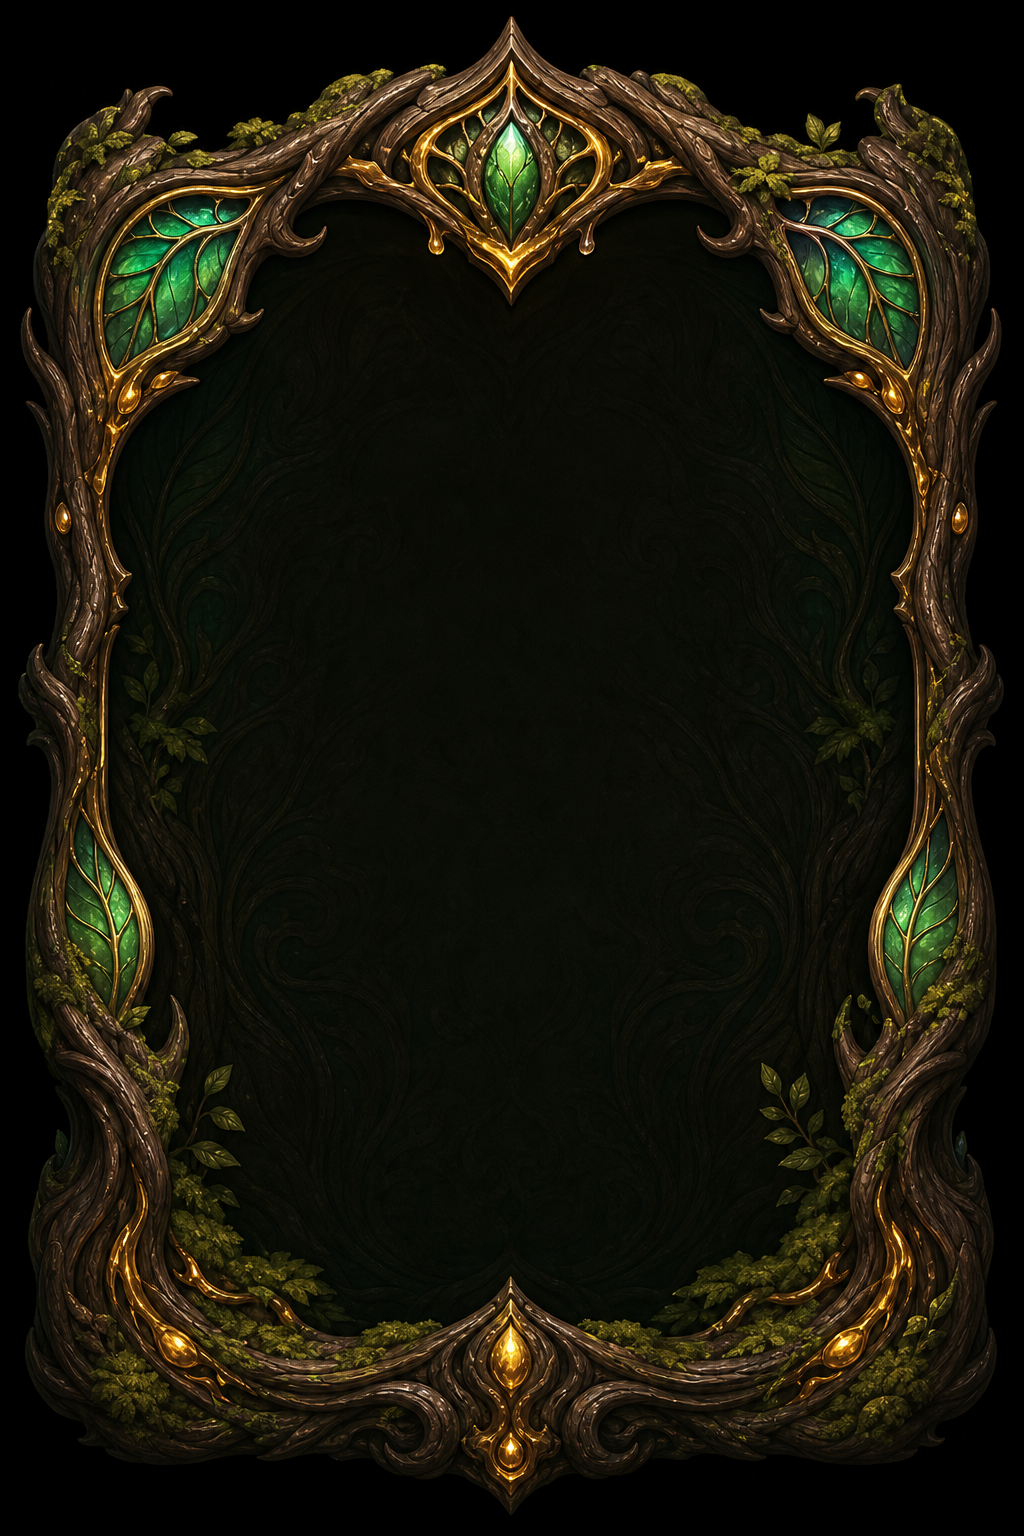
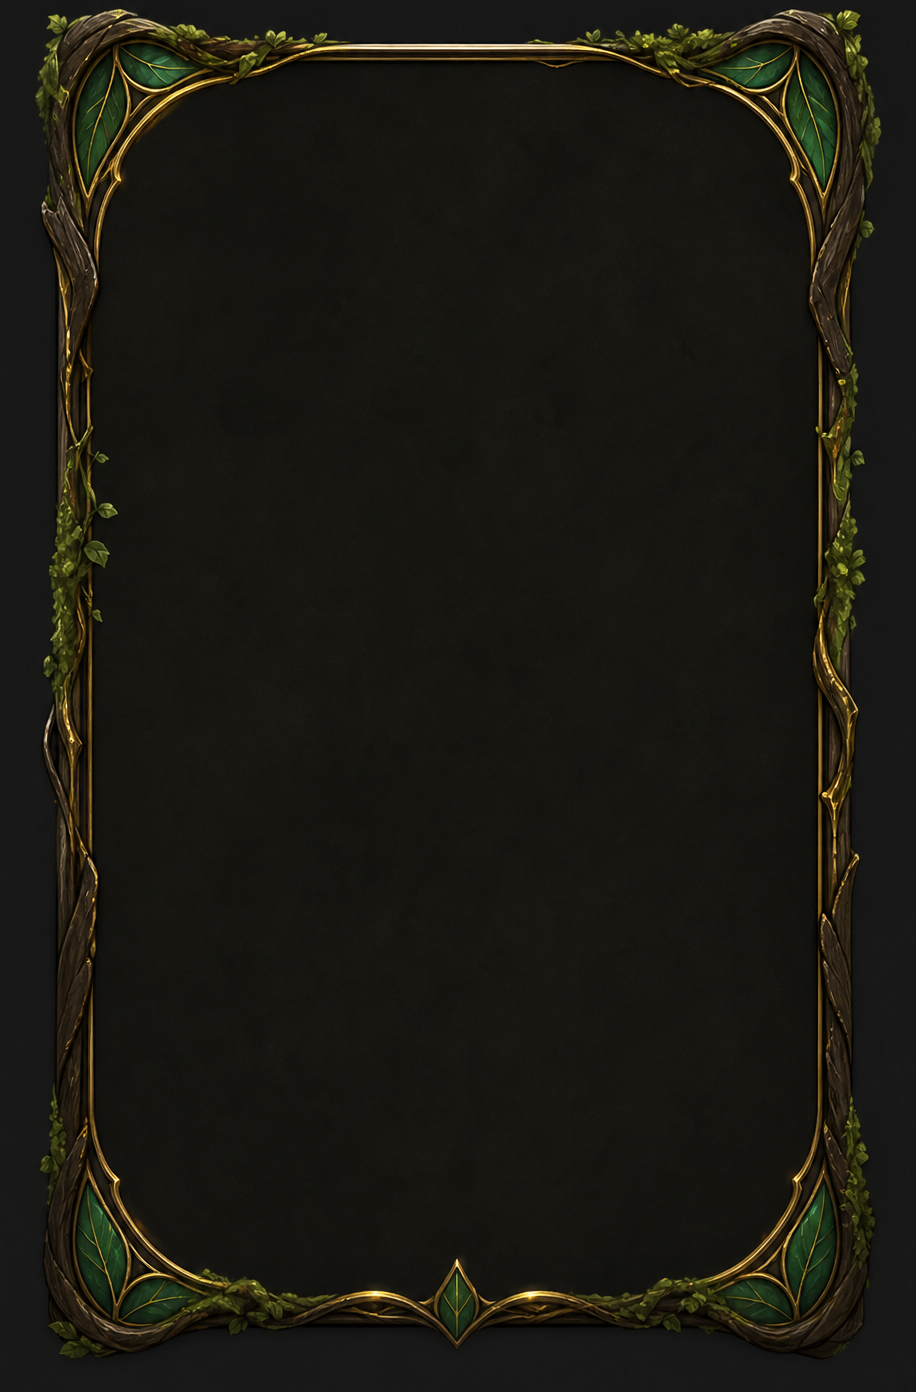
Refine shop card border art

Changed region(s): [[0.0, 0.0, 1.0, 1.0], [0.9782, 0.2471, 1.0, 0.3089], [0.9782, 0.8958, 1.0, 0.9267]]

diff --git a/src/style.css b/src/style.css
@@ -3299,7 +3299,7 @@ canvas {
     linear-gradient(rgba(6, 11, 8, 0.28), rgba(6, 11, 8, 0.42)),
     var(--shop-panel-art) center / 100% 100% no-repeat,
     linear-gradient(180deg, #07120d, #020706);
-  border: 1px solid rgba(235, 197, 103, 0.42);
+  border: 0;
   border-radius: 8px;
   box-shadow:
     0 30px 90px rgba(0, 0, 0, 0.68),
@@ -3348,7 +3348,7 @@ canvas {
   background:
     linear-gradient(90deg, rgba(31, 18, 8, 0.48), rgba(6, 12, 9, 0.78)),
     rgba(6, 12, 10, 0.72);
-  border: 1px solid rgba(236, 190, 82, 0.52);
+  border: 0;
   border-radius: 8px;
   box-shadow: inset 0 0 24px rgba(255, 192, 67, 0.1);
 }
@@ -3394,13 +3394,13 @@ canvas {
   display: grid;
   gap: 8px;
   min-height: 230px;
-  padding: 34px 24px 26px;
+  padding: 30px 28px 24px;
   overflow: hidden;
   background:
-    linear-gradient(rgba(7, 14, 10, 0.66), rgba(4, 9, 7, 0.76)),
+    linear-gradient(rgba(7, 14, 10, 0.3), rgba(4, 9, 7, 0.46)),
     var(--shop-card-art) center / 100% 100% no-repeat,
     rgba(8, 16, 13, 0.86);
-  border: 1px solid rgba(232, 190, 95, 0.34);
+  border: 0;
   border-radius: 8px;
   box-shadow:
     inset 0 0 46px rgba(0, 0, 0, 0.48),
@@ -3408,16 +3408,16 @@ canvas {
 }
 
 .shop-item.uncommon {
-  border-color: rgba(118, 203, 150, 0.48);
   box-shadow:
     inset 0 0 42px rgba(39, 115, 72, 0.16),
+    0 0 22px rgba(118, 203, 150, 0.1),
     0 10px 28px rgba(0, 0, 0, 0.28);
 }
 
 .shop-item.rare {
-  border-color: rgba(153, 166, 255, 0.56);
   box-shadow:
     inset 0 0 42px rgba(98, 105, 204, 0.18),
+    0 0 24px rgba(153, 166, 255, 0.14),
     0 10px 28px rgba(0, 0, 0, 0.28);
 }
 
@@ -3429,6 +3429,7 @@ canvas {
 
 .shop-item-topline strong {
   color: #ffd56d;
+  padding-right: 6px;
 }
 
 .shop-item h2 {
@@ -3469,6 +3470,7 @@ canvas {
 .shop-stat-list dd {
   margin: 0;
   color: #b8f18d;
+  padding-right: 8px;
 }
 
 .shop-button,
@@ -3482,7 +3484,7 @@ canvas {
     linear-gradient(rgba(36, 18, 7, 0.08), rgba(36, 18, 7, 0.18)),
     var(--shop-button-art) center / 100% 100% no-repeat,
     linear-gradient(180deg, #7f541e, #2f1d0e);
-  border: 1px solid rgba(255, 220, 133, 0.7);
+  border: 0;
   border-radius: 8px;
   box-shadow:
     inset 0 0 18px rgba(255, 198, 70, 0.12),
@@ -3496,7 +3498,6 @@ canvas {
 
 .shop-button.is-primary {
   color: #efffc5;
-  border-color: rgba(201, 241, 129, 0.72);
   background:
     linear-gradient(rgba(64, 126, 44, 0.2), rgba(15, 54, 29, 0.36)),
     var(--shop-button-art) center / 100% 100% no-repeat,
@@ -3544,7 +3545,17 @@ canvas {
   .shop-item,
   .shop-empty {
     min-height: 260px;
-    padding: 40px 24px 30px;
+    padding: 36px 28px 30px;
+  }
+
+  .shop-item h2 {
+    font-size: 0.94rem;
+  }
+
+  .shop-item p,
+  .shop-item em,
+  .shop-empty span {
+    font-size: 0.8rem;
   }
 }
 
